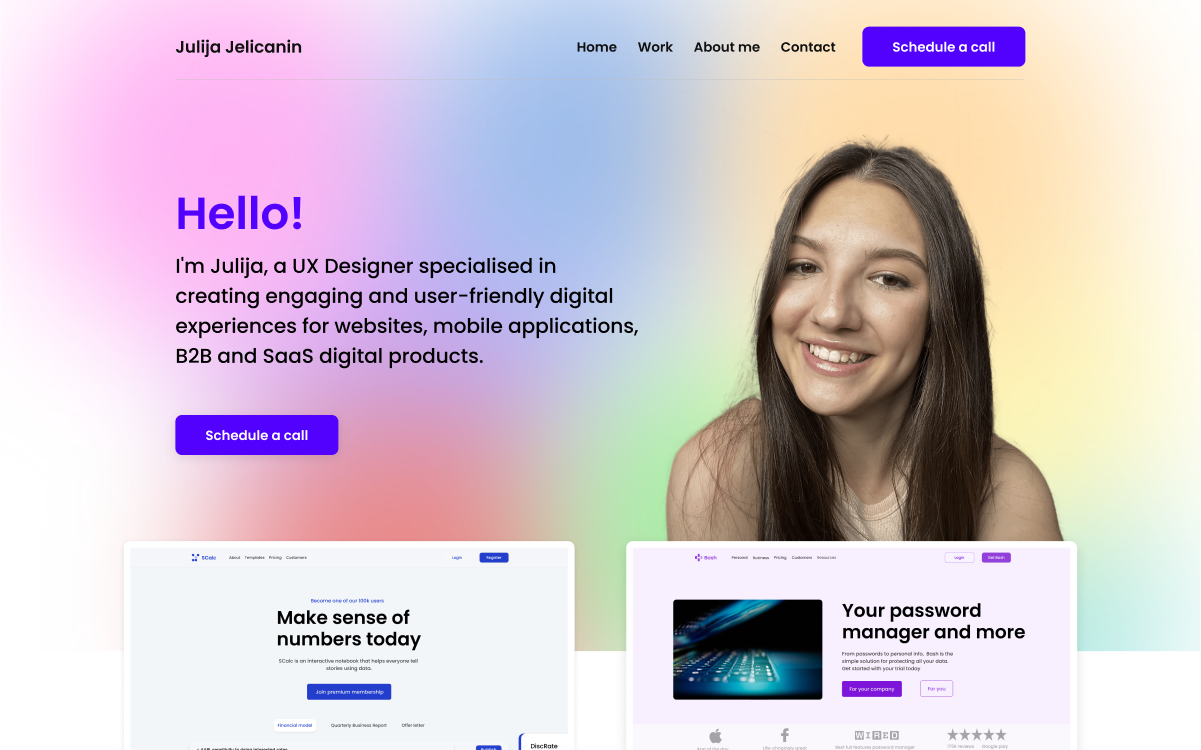
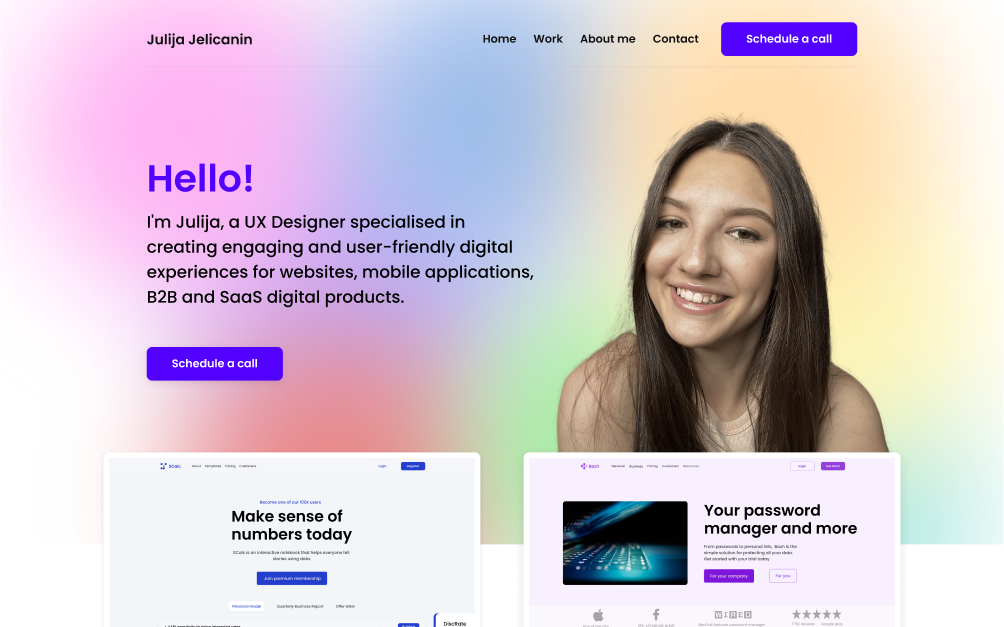
fixing preview

diff --git a/public/index.html b/public/index.html
@@ -29,8 +29,6 @@
     />
 
     <!--preview-->
-    <meta property="og:image:width" content="1200">
-    <meta property="og:image:height" content="627">
     <meta name="image" property="og:image" content="%PUBLIC_URL%/preview.png">
     <meta name="author" content="Julija Jelicanin">
 
